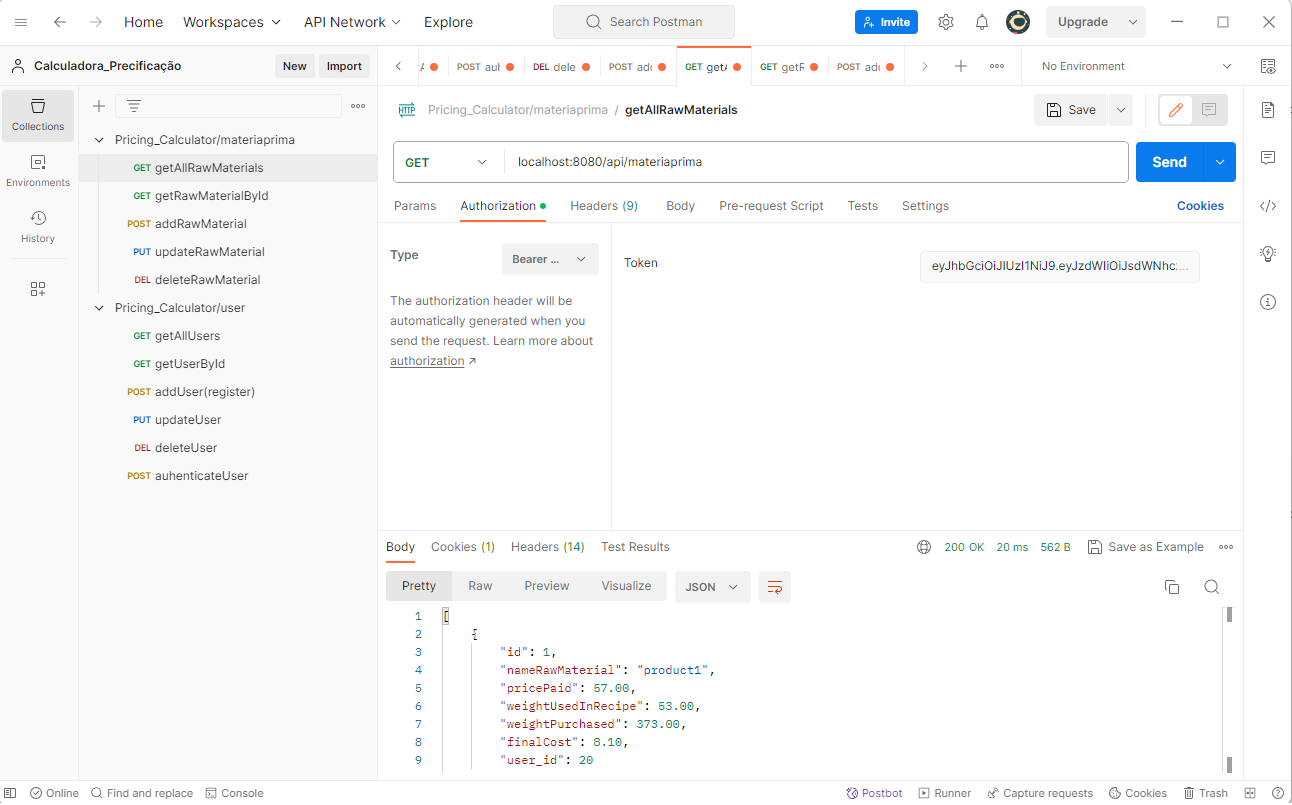
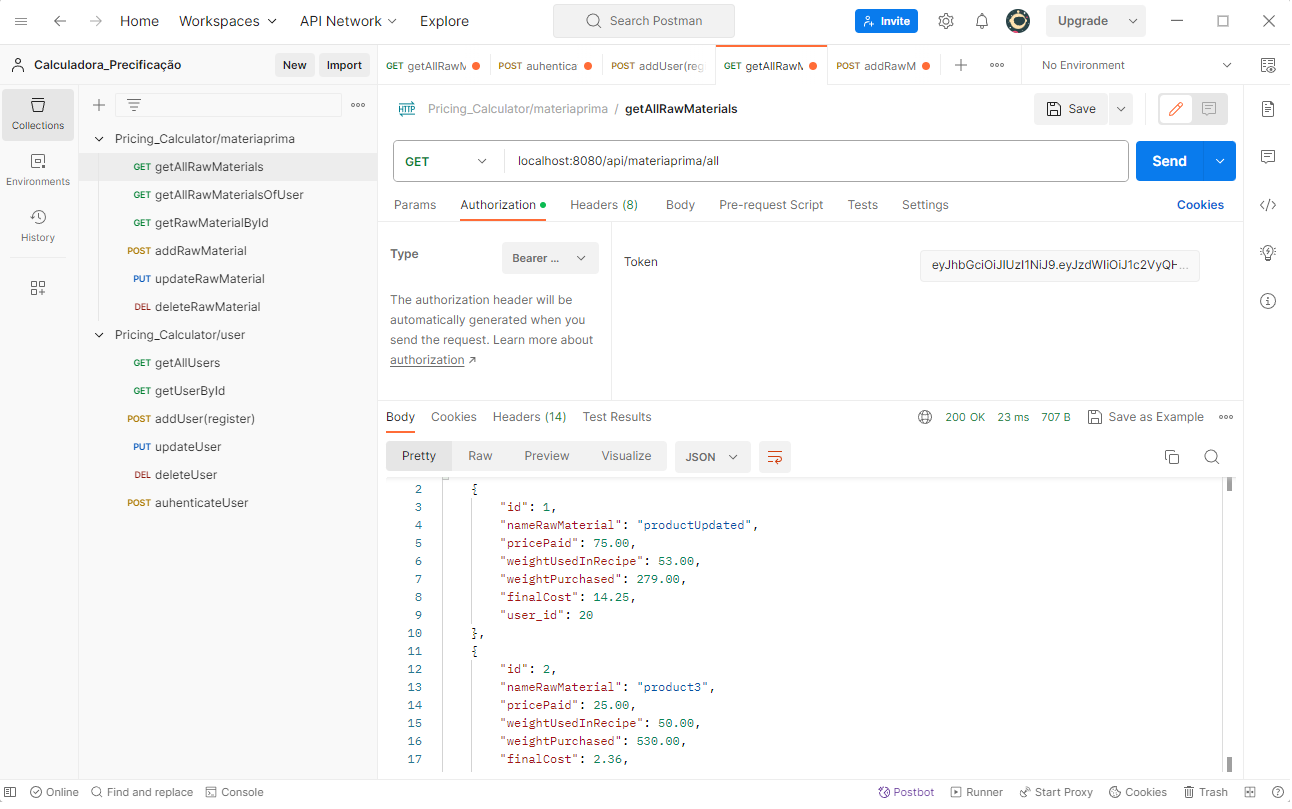
Método Consultar matérias primas do usuário logado

diff --git a/CalculadoraPrecificacaoPC/src/main/java/br/com/sabatini/service/RawMaterialService.java b/CalculadoraPrecificacaoPC/src/main/java/br/com/sabatini/service/RawMaterialService.java
@@ -46,6 +46,12 @@ public class RawMaterialService {
         return rawMaterialRepository.findAll().stream().map(RawMaterialResponseDTO::new).toList();
     }
 
+    public List<RawMaterialResponseDTO> getAllRawMaterialsOfUser() {
+        UserDetails userDetails = (UserDetails) SecurityContextHolder.getContext().getAuthentication().getPrincipal();
+        User currentUser = userService.getUserByEmail(userDetails.getUsername());
+        return rawMaterialRepository.getRawMaterialByUser(currentUser).stream().map(RawMaterialResponseDTO::new).toList();
+    }
+
     public RawMaterialResponseDTO getRawMaterialById(Long id) {
         return rawMaterialRepository.findById(id)
                 .map(RawMaterialResponseDTO::new).orElseThrow(() -> new IdNotFoundException("ID não encontrado!"));

diff --git a/CalculadoraPrecificacaoPC/src/main/java/br/com/sabatini/controller/RawMaterialController.java b/CalculadoraPrecificacaoPC/src/main/java/br/com/sabatini/controller/RawMaterialController.java
@@ -31,9 +31,15 @@ public class RawMaterialController {
         return ResponseEntity.created(uri).build();
     }
 
-    @GetMapping
+    @GetMapping(path = "/all")
     public ResponseEntity<List<RawMaterialResponseDTO>> getAllRawMaterials() {
         List<RawMaterialResponseDTO> rawMaterialResponseDTOList = rawMaterialService.getAllRawMaterials();
+        return ResponseEntity.ok().body(rawMaterialResponseDTOList);
+    }
+
+    @GetMapping
+    public ResponseEntity<List<RawMaterialResponseDTO>> getAllRawMaterialsOfUser() {
+        List<RawMaterialResponseDTO> rawMaterialResponseDTOList = rawMaterialService.getAllRawMaterialsOfUser();
         return ResponseEntity.ok().body(rawMaterialResponseDTOList);
     }
 

diff --git a/CalculadoraPrecificacaoPC/src/main/java/br/com/sabatini/repository/RawMaterialRepository.java b/CalculadoraPrecificacaoPC/src/main/java/br/com/sabatini/repository/RawMaterialRepository.java
@@ -1,9 +1,13 @@
 package br.com.sabatini.repository;
 
 import br.com.sabatini.model.entity.RawMaterial;
+import br.com.sabatini.model.entity.User;
 import org.springframework.data.jpa.repository.JpaRepository;
 import org.springframework.stereotype.Repository;
 
+import java.util.List;
+
 @Repository
 public interface RawMaterialRepository extends JpaRepository<RawMaterial, Long> {
+    List<RawMaterial> getRawMaterialByUser(User user);
 }
